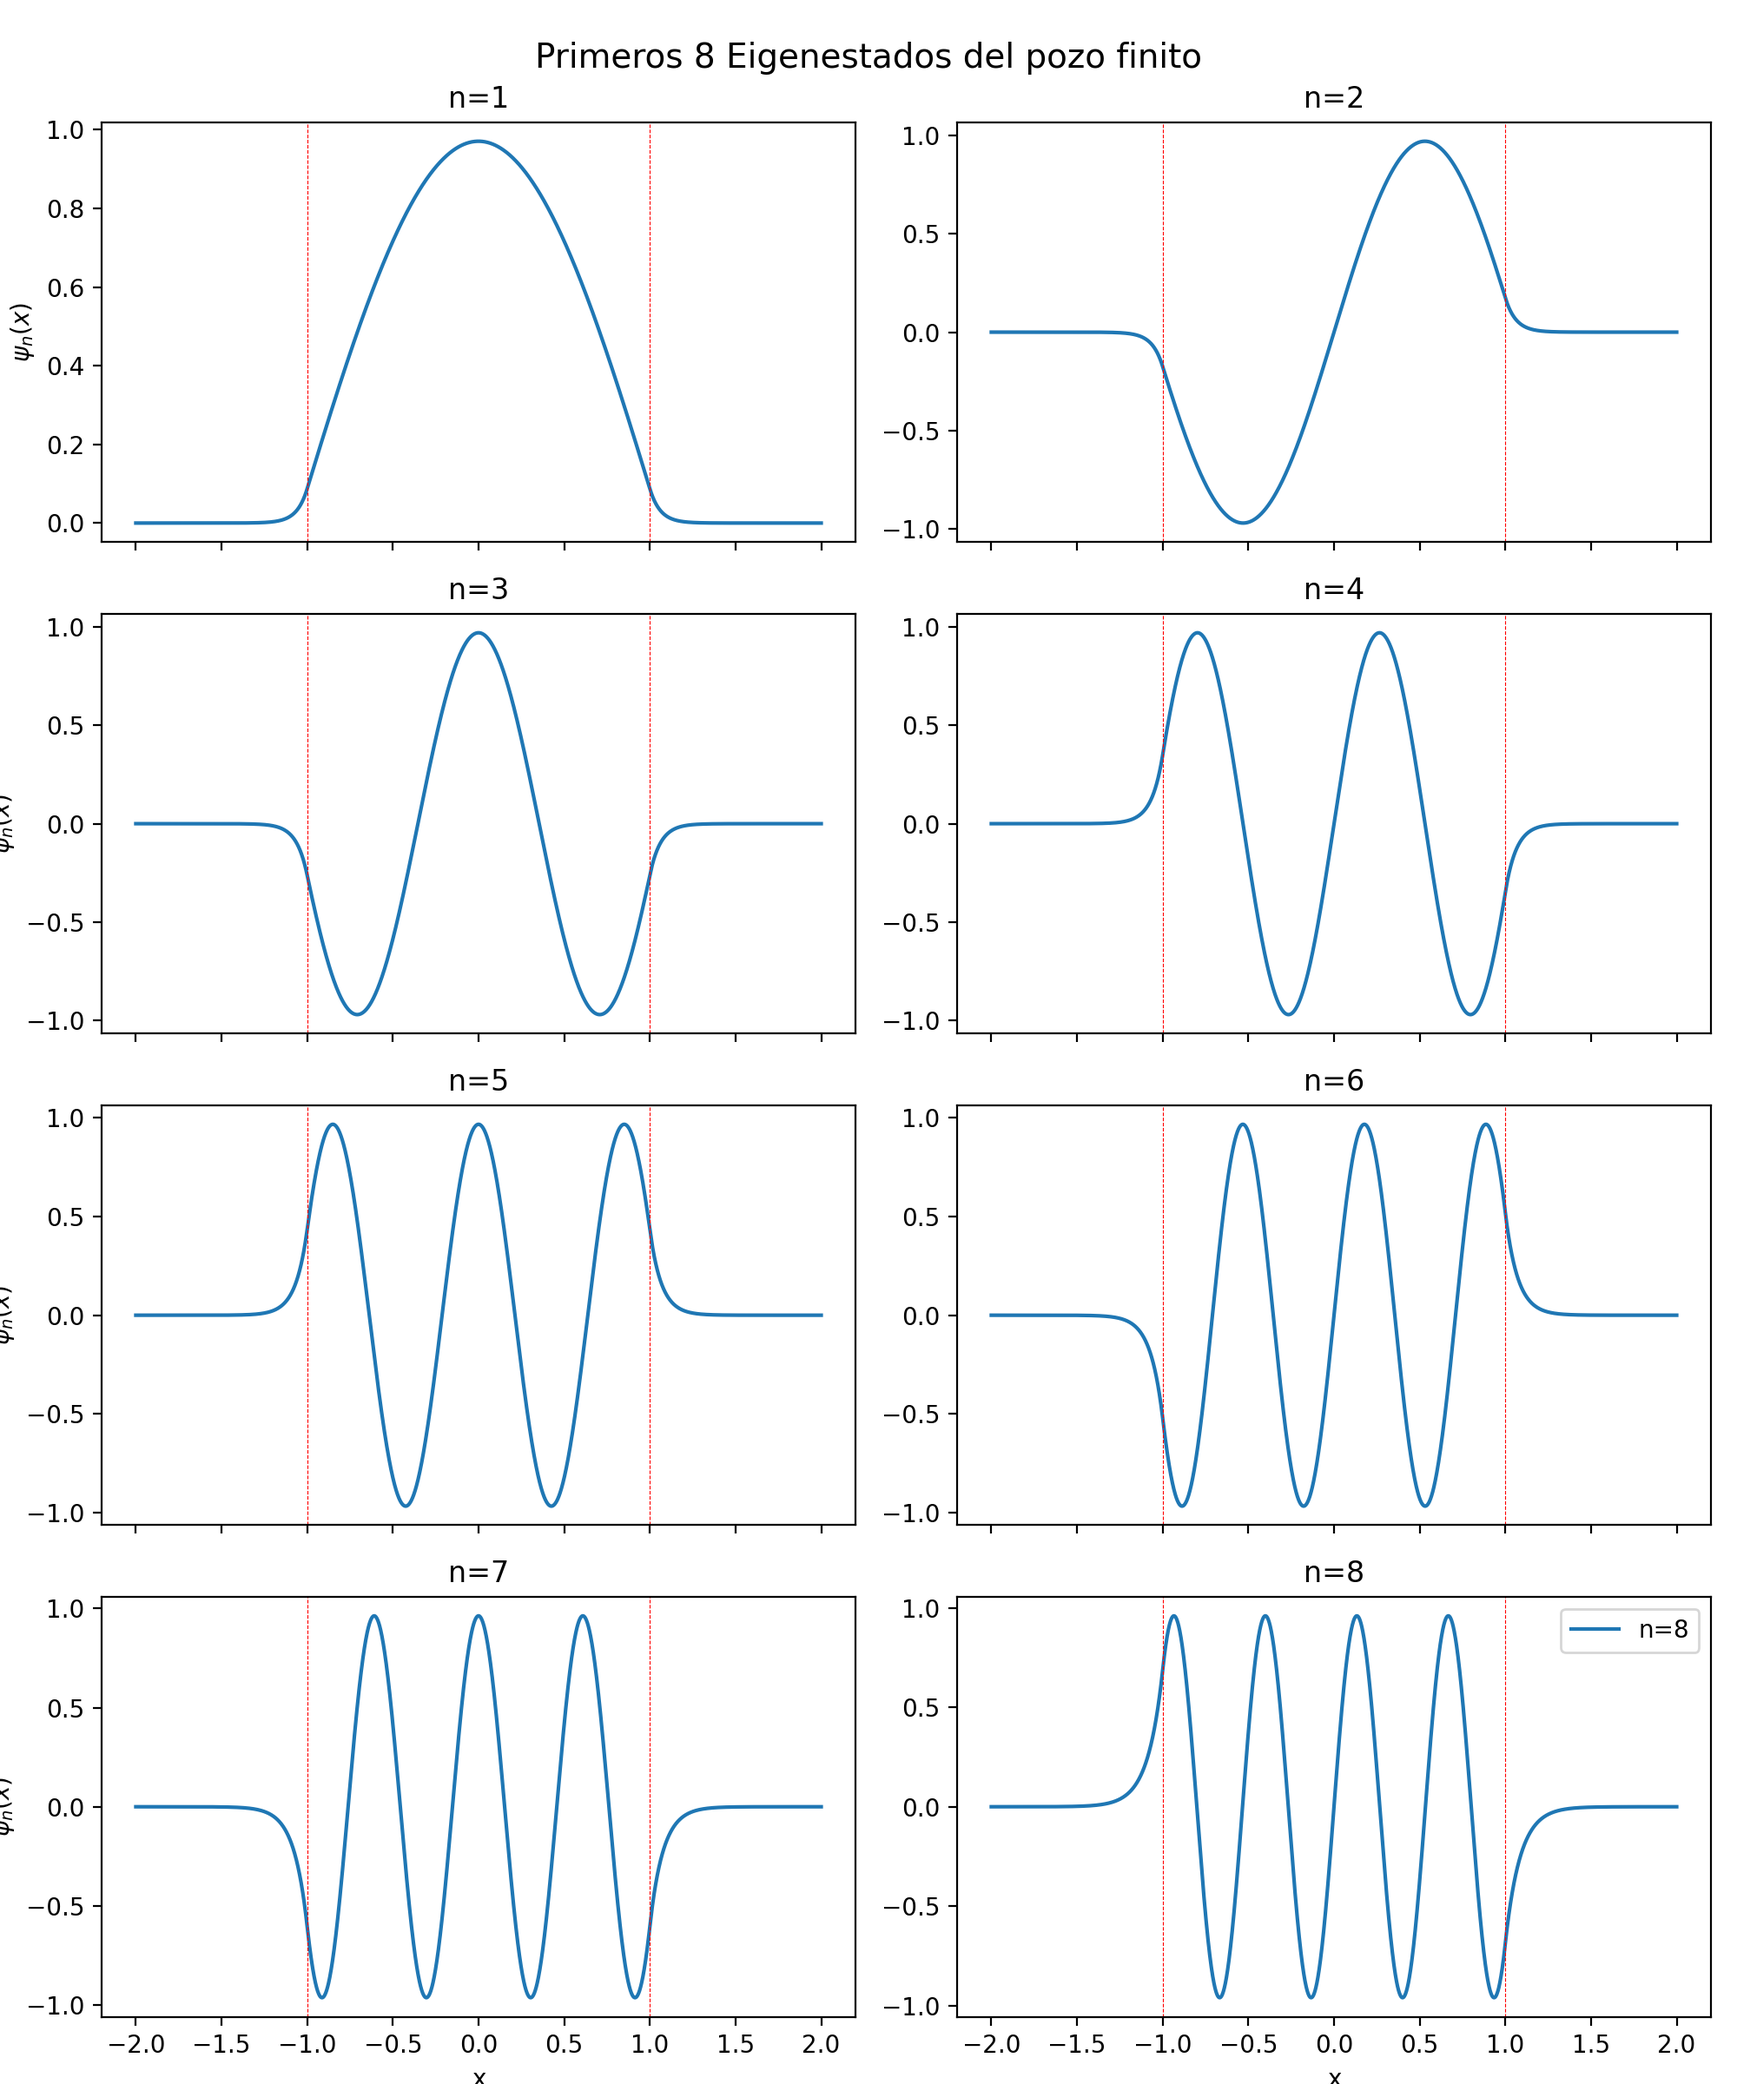
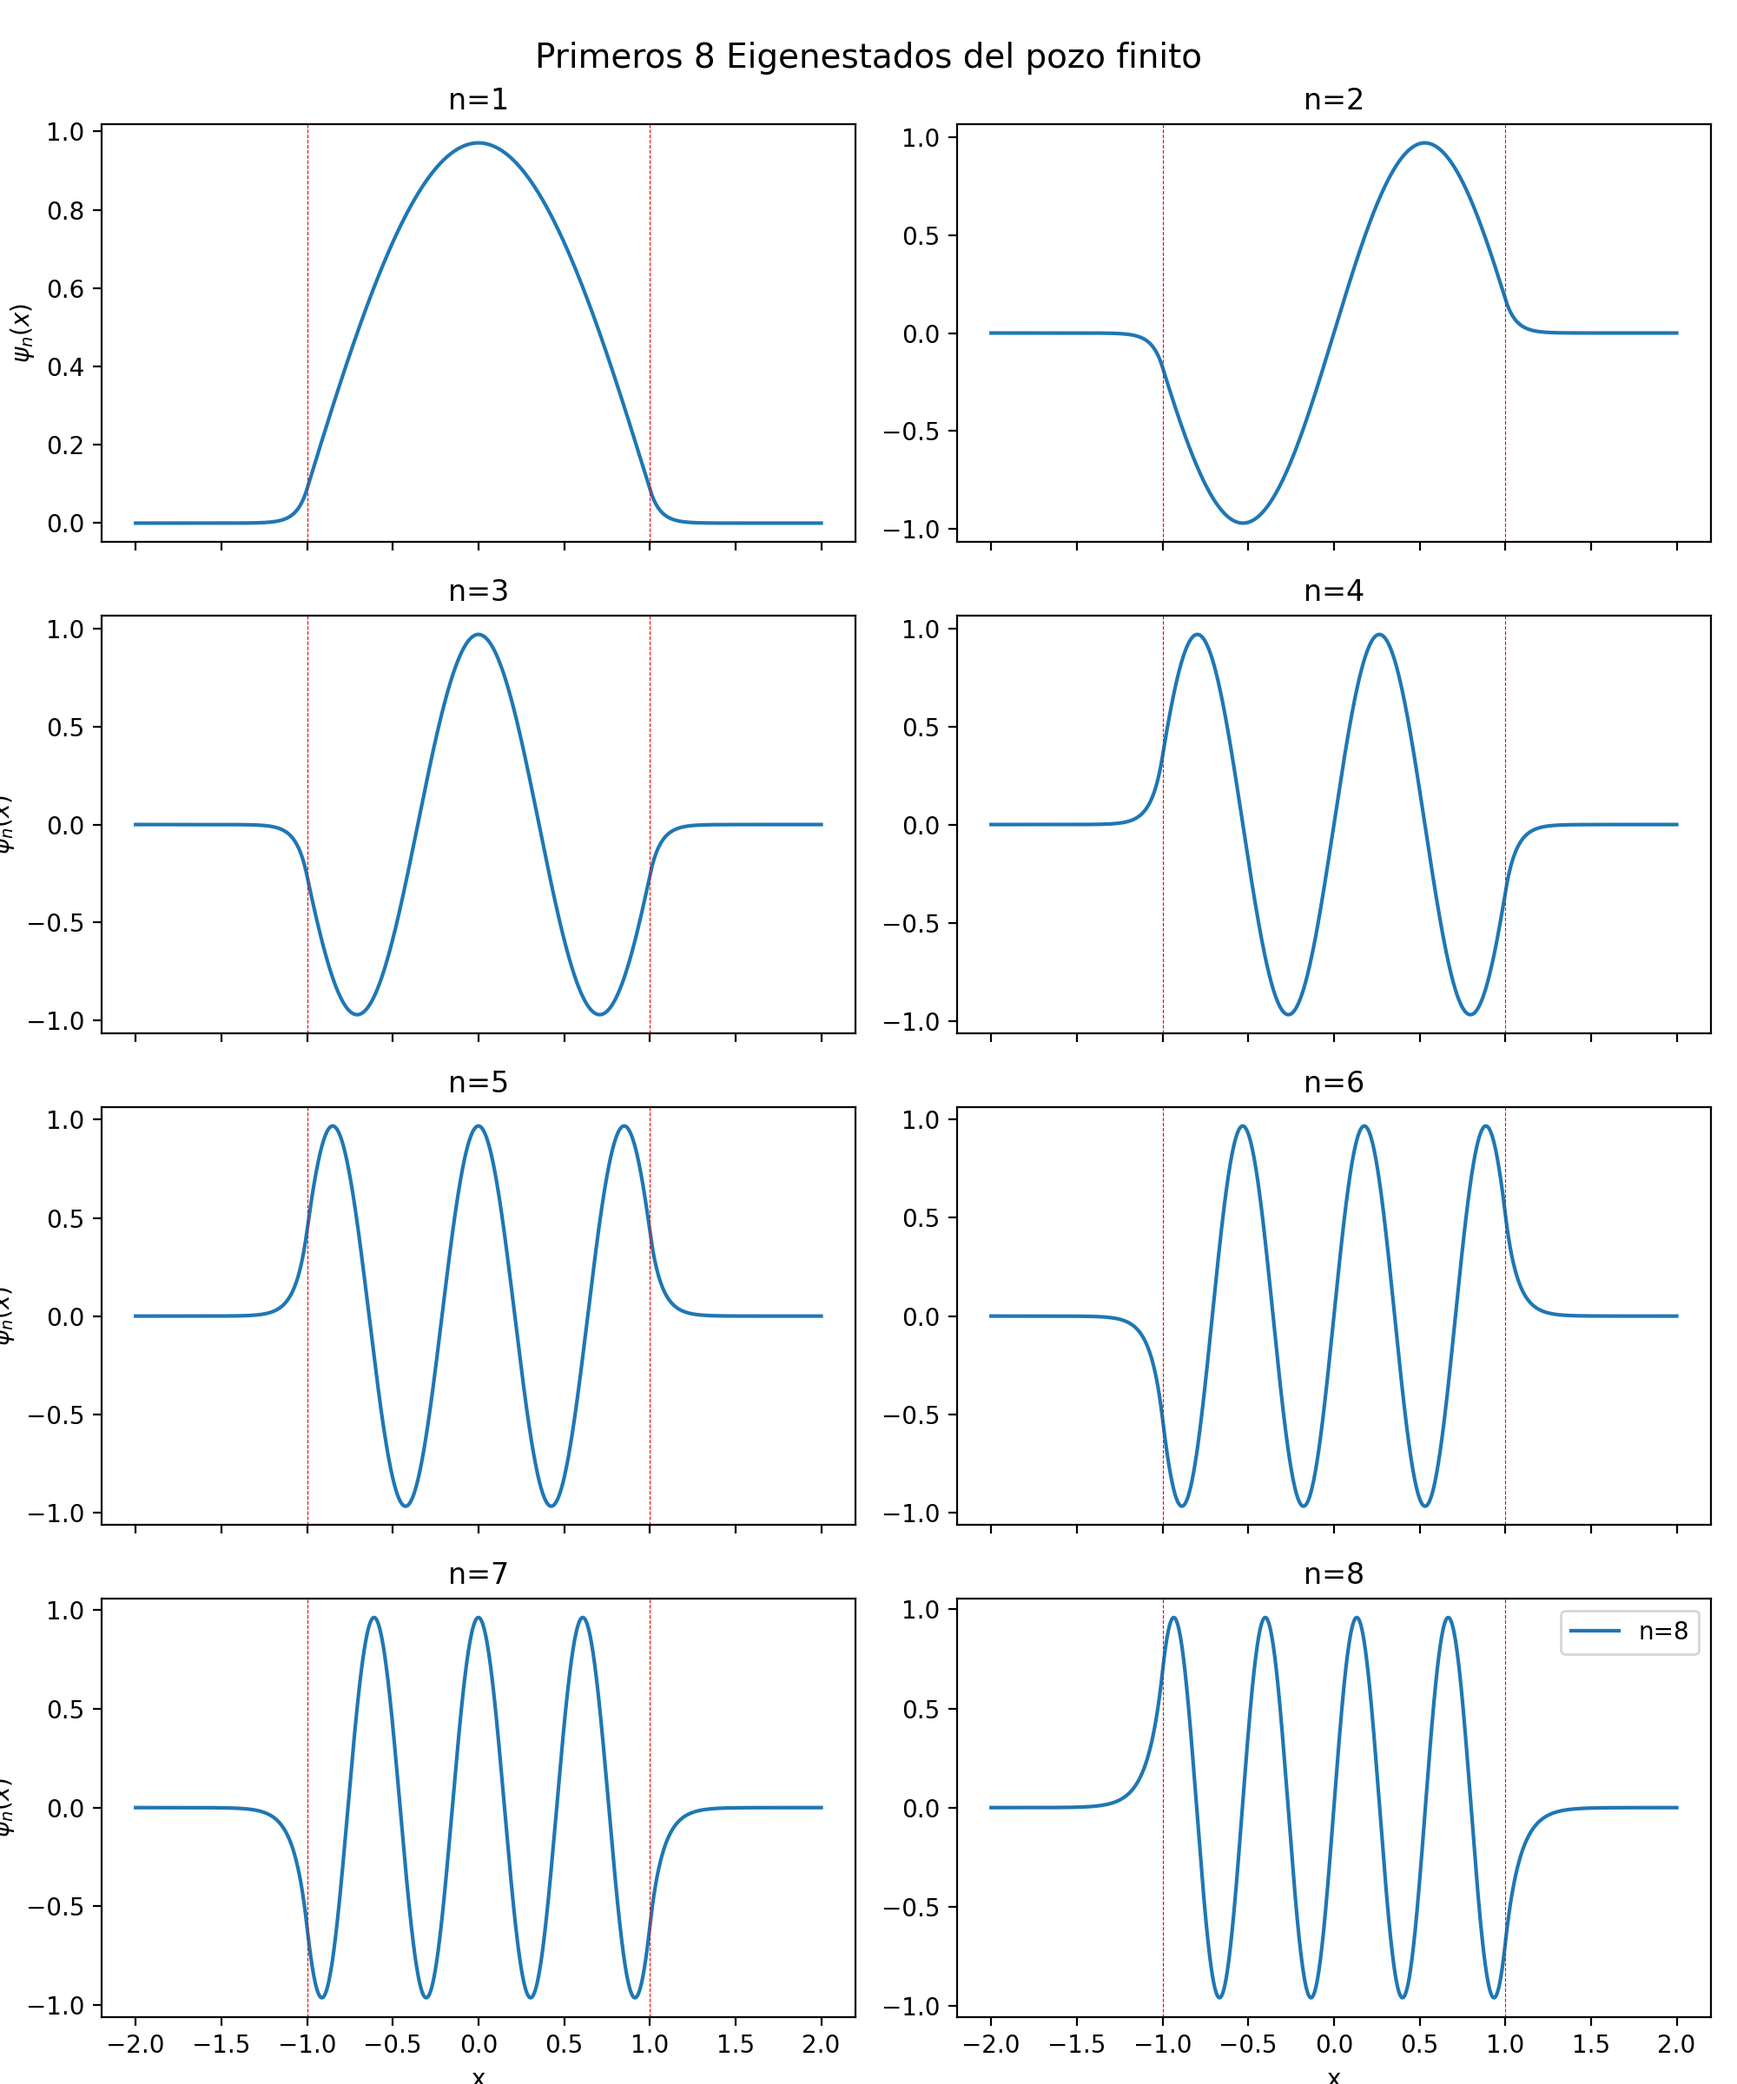
Figura 1: etiquetas de energia separadas

diff --git a/codigo/inciso2.py b/codigo/inciso2.py
@@ -68,8 +68,11 @@ def plot_energies(energias,*,a=1,ax=None):
     if ax is None:
         _, ax = plt.subplots()
 
+    y_prev = -np.inf
     for (index,e) in enumerate(energias,start=1):
-        ax.text(1, e, f"  n={index}", va="center_baseline")
+        y = max(e, y_prev + 6)
+        ax.text(1, y, f"  n={index}", va="center_baseline")
+        y_prev = y
     for e in energias:
         plt.hlines(e,-a,a,lw=0.6)
     plt.ylabel("Energía") 
